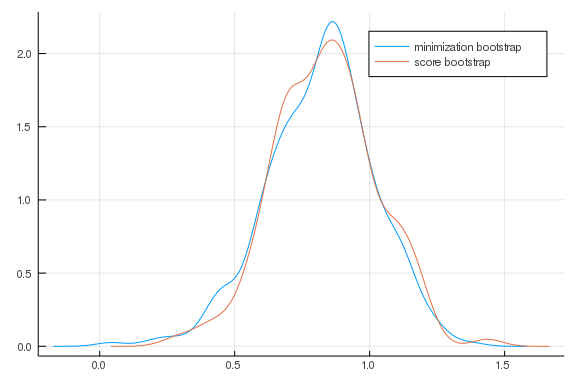
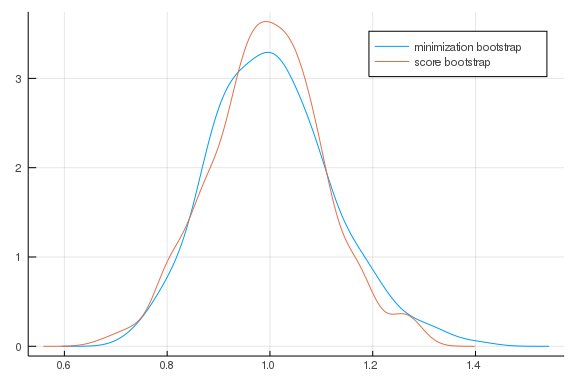
Deployed 683b70d with MkDocs version: 1.0.4

diff --git a/bootstrap/index.html b/bootstrap/index.html
@@ -175,12 +175,12 @@ median minus its true value.</p>
 Plots.gr();
 </code></pre>
 
-<pre><code class="julia">dgp(n) = rand(n).^2
+<pre><code class="julia">dgp(n) = rand(n)
 estimator(x) = median(x)
 # simulating T ~ G_n(τ,F_0)
-n = 300
-S = 1000
-T = [estimator(dgp(n)) for s in 1:S] .- 0.25
+n = 1000
+S = 999
+T = [estimator(dgp(n)) for s in 1:S] .- 0.5
 function bootstrap(data, estimator, S)
   n = length(data)
   θhat = estimator(data)

diff --git a/index.html b/index.html
@@ -412,5 +412,5 @@
 
 <!--
 MkDocs version : 1.0.4
-Build Date UTC : 2019-10-29 20:54:14
+Build Date UTC : 2019-10-29 20:59:08
 -->
